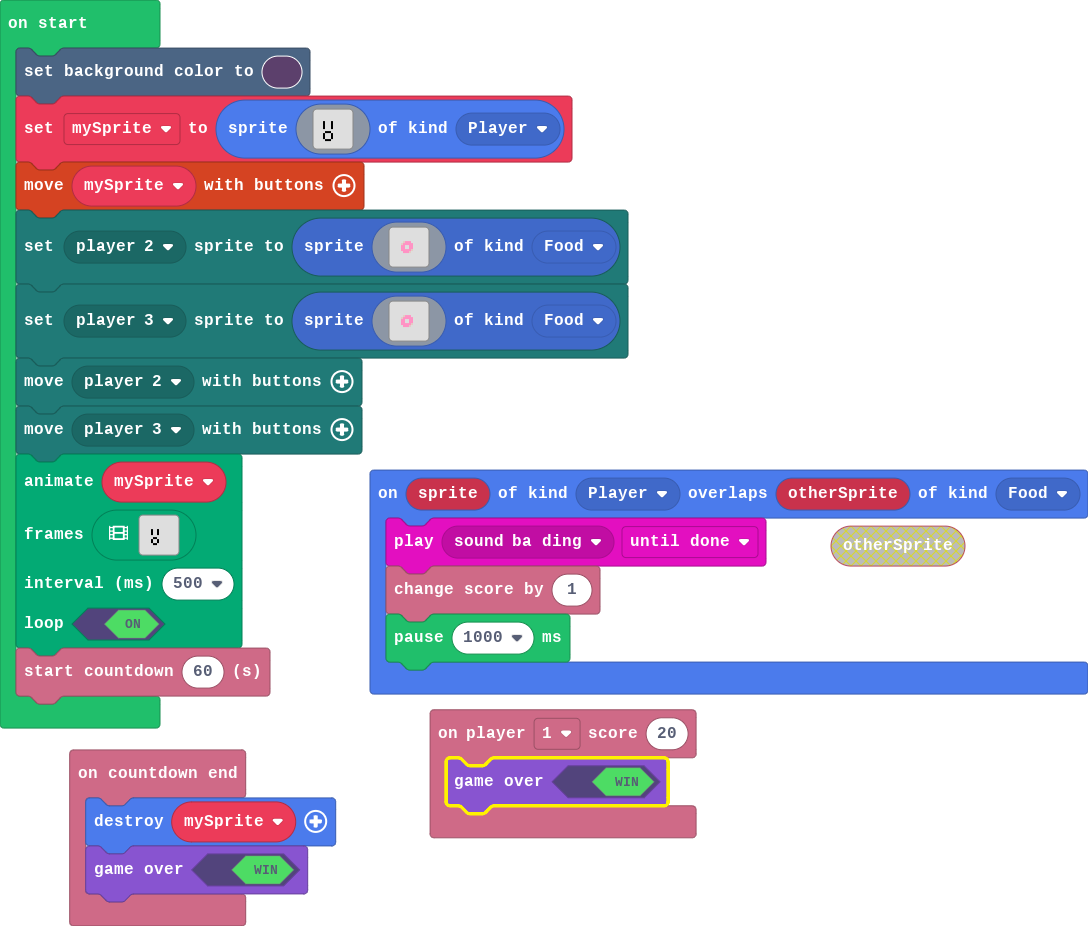
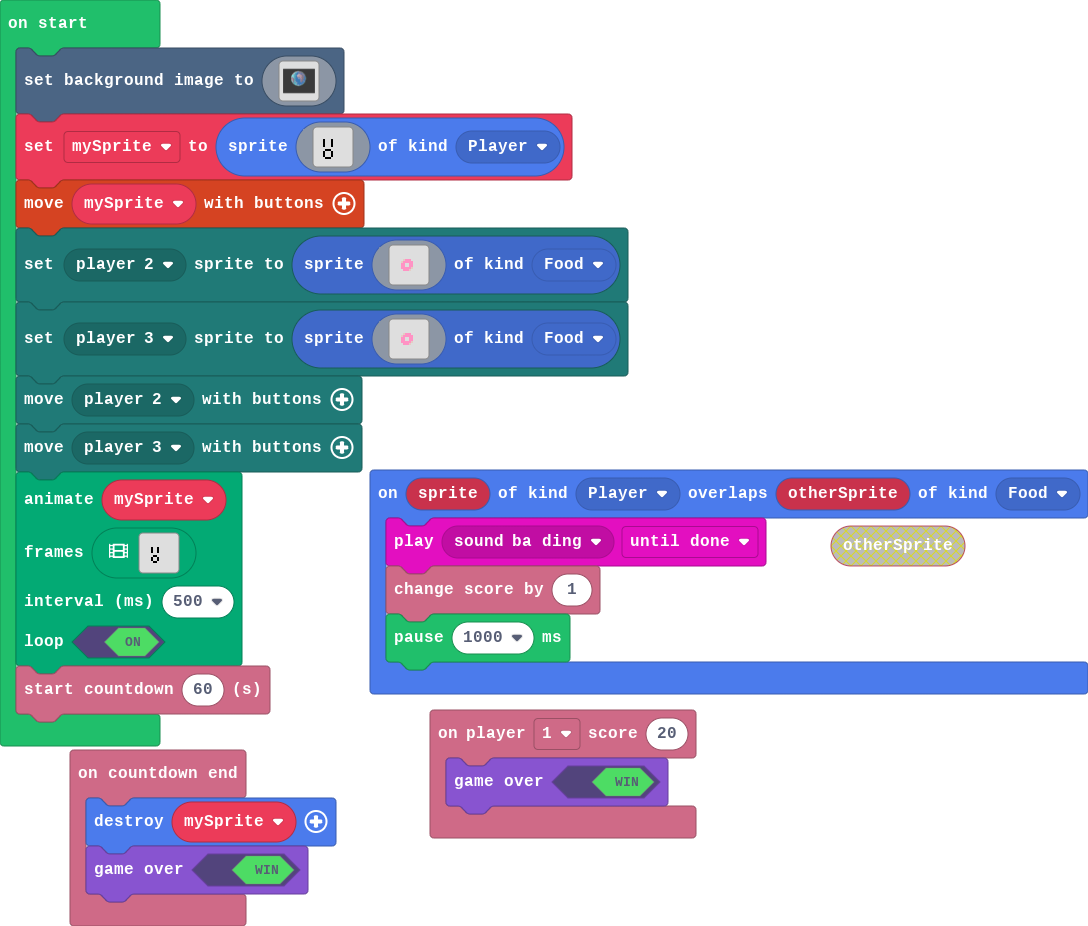
Update main.blocks, main.ts, images.g.jres, images.g.ts

Changed region(s): [[0.0, 0.0302, 0.5938, 0.8164], [0.4062, 0.8164, 0.625, 0.8769], [0.2812, 0.8769, 0.3125, 0.9071]]

diff --git a/main.ts b/main.ts
@@ -11,7 +11,128 @@ info.player1.onScore(20, function () {
     game.gameOver(true)
 })
 let mySprite: Sprite = null
-scene.setBackgroundColor(12)
+scene.setBackgroundImage(img`
+    ffffffffffffffffffffffffffffffffffffffffffffffffffffffffffffffffffffffffffffffffffffffffffffffffffffffffffffffffffffffffffffffffffffffffffffffffffffffffffffffff
+    ffffffffffffffffffffffffffffffffffffffffffffffffffffffffffffffffffffffffffffffffffffffffffffffffffffffffffffffffffffffffffffffffffffffffffffffffffffffffffffffff
+    ffffffffffffffffffffffffffffffffffffffffffffffffffffffffffffffffffffffffffffffffffffffffffffffffffffffffffffffffffffffffffffffffffffffffffffffffffffffffffffffff
+    ffffffffffffffffffffffffffffffffffffffffffffffffffffffffffffffffffffffffffffffffffffffffffffffffffffffffffffffffffffffffffffffffffffffffffffffffffffffffffffffff
+    ffffffffffffffffffffffffffffffffffffffffffffffffffffffffffffffffffffffffffffffffffffffffffffffffffffffffffffffffffffffffffffffffffffffffffffffffffffffffffffffff
+    ffffffffffffffffffffffffffffffffffffffffffffffffffffffffffffffffffffffffffffffffffffffffffffffffffffffffffffffffffffffffffffffffffffffffffffffffffffffffffffffff
+    ffffffffffffffffffffffffffffffffffffffffffffffffffffffffffffffffffffffffffffffffffffffffffffffffffffffffffffffffffffffffffffffffffffffffffffffffffffffffffffffff
+    ffffffffffffffffffffffffffffffffffffffffffffffffffffffffffffffffffffffffffffffffffffffffffffffffffffffffffffffffffffffffffffffffffffffffffffffffffffffffffffffff
+    ffffffffffffffffffffffffffffffffffffffffffffffffffffffffffffffffffffffffffffffffffffffffffffffffffffffffffffffffffffffffffffffffffffffffffffffffffffffffffffffff
+    ffffffffffffffffffffffffffffffffffffffffffffffffffffffffffffffffffffffffffffffffffffffffffffffffffffffffffffffffffffffffffffffffffffffffffffffffffffffffffffffff
+    ffffffffffffffffffffffffffffffffffffffffffffffffffffffffffffffffffffffffffffffffffffffffffffffffffffffffffffffffffffffffffffffffffffffffffffffffffffffffffffffff
[73 lines of base64/hex data omitted]
+    ffffffffffffffffffffffffffffffffffffffffffffffffffffffffffffffffffffffffffffffffffffffffffffffffffffffffffffffffffffffffffffffffffffffffffffffffffffffffffffffff
+    ffffffffffffffffffffffffffffffffffffffffffffffffffffffffffffffffffffffffffffffffffffffffffffffffffffffffffffffffffffffffffffffffffffffffffffffffffffffffffffffff
+    ffffffffffffffffffffffffffffffffffffffffffffffffffffffffffffffffffffffffffffffffffffffffffffffffffffffffffffffffffffffffffffffffffffffffffffffffffffffffffffffff
+    ffffffffffffffffffffffffffffffffffffffffffffffffffffffffffffffffffffffffffffffffffffffffffffffffffffffffffffffffffffffffffffffffffffffffffffffffffffffffffffffff
+    ffffffffffffffffffffffffffffffffffffffffffffffffffffffffffffffffffffffffffffffffffffffffffffffffffffffffffffffffffffffffffffffffffffffffffffffffffffffffffffffff
+    ffffffffffffffffffffffffffffffffffffffffffffffffffffffffffffffffffffffffffffffffffffffffffffffffffffffffffffffffffffffffffffffffffffffffffffffffffffffffffffffff
+    ffffffffffffffffffffffffffffffffffffffffffffffffffffffffffffffffffffffffffffffffffffffffffffffffffffffffffffffffffffffffffffffffffffffffffffffffffffffffffffffff
+    ffffffffffffffffffffffffffffffffffffffffffffffffffffffffffffffffffffffffffffffffffffffffffffffffffffffffffffffffffffffffffffffffffffffffffffffffffffffffffffffff
+    ffffffffffffffffffffffffffffffffffffffffffffffffffffffffffffffffffffffffffffffffffffffffffffffffffffffffffffffffffffffffffffffffffffffffffffffffffffffffffffffff
+    ffffffffffffffffffffffffffffffffffffffffffffffffffffffffffffffffffffffffffffffffffffffffffffffffffffffffffffffffffffffffffffffffffffffffffffffffffffffffffffffff
+    ffffffffffffffffffffffffffffffffffffffffffffffffffffffffffffffffffffffffffffffffffffffffffffffffffffffffffffffffffffffffffffffffffffffffffffffffffffffffffffffff
+    ffffffffffffffffffffffffffffffffffffffffffffffffffffffffffffffffffffffffffffffffffffffffffffffffffffffffffffffffffffffffffffffffffffffffffffffffffffffffffffffff
+    ffffffffffffffffffffffffffffffffffffffffffffffffffffffffffffffffffffffffffffffffffffffffffffffffffffffffffffffffffffffffffffffffffffffffffffffffffffffffffffffff
+    ffffffffffffffffffffffffffffffffffffffffffffffffffffffffffffffffffffffffffffffffffffffffffffffffffffffffffffffffffffffffffffffffffffffffffffffffffffffffffffffff
+    ffffffffffffffffffffffffffffffffffffffffffffffffffffffffffffffffffffffffffffffffffffffffffffffffffffffffffffffffffffffffffffffffffffffffffffffffffffffffffffffff
+    ffffffffffffffffffffffffffffffffffffffffffffffffffffffffffffffffffffffffffffffffffffffffffffffffffffffffffffffffffffffffffffffffffffffffffffffffffffffffffffffff
+    ffffffffffffffffffffffffffffffffffffffffffffffffffffffffffffffffffffffffffffffffffffffffffffffffffffffffffffffffffffffffffffffffffffffffffffffffffffffffffffffff
+    ffffffffffffffffffffffffffffffffffffffffffffffffffffffffffffffffffffffffffffffffffffffffffffffffffffffffffffffffffffffffffffffffffffffffffffffffffffffffffffffff
+    ffffffffffffffffffffffffffffffffffffffffffffffffffffffffffffffffffffffffffffffffffffffffffffffffffffffffffffffffffffffffffffffffffffffffffffffffffffffffffffffff
+    ffffffffffffffffffffffffffffffffffffffffffffffffffffffffffffffffffffffffffffffffffffffffffffffffffffffffffffffffffffffffffffffffffffffffffffffffffffffffffffffff
+    ffffffffffffffffffffffffffffffffffffffffffffffffffffffffffffffffffffffffffffffffffffffffffffffffffffffffffffffffffffffffffffffffffffffffffffffffffffffffffffffff
+    ffffffffffffffffffffffffffffffffffffffffffffffffffffffffffffffffffffffffffffffffffffffffffffffffffffffffffffffffffffffffffffffffffffffffffffffffffffffffffffffff
+    ffffffffffffffffffffffffffffffffffffffffffffffffffffffffffffffffffffffffffffffffffffffffffffffffffffffffffffffffffffffffffffffffffffffffffffffffffffffffffffffff
+    ffffffffffffffffffffffffffffffffffffffffffffffffffffffffffffffffffffffffffffffffffffffffffffffffffffffffffffffffffffffffffffffffffffffffffffffffffffffffffffffff
+    ffffffffffffffffffffffffffffffffffffffffffffffffffffffffffffffffffffffffffffffffffffffffffffffffffffffffffffffffffffffffffffffffffffffffffffffffffffffffffffffff
+    ffffffffffffffffffffffffffffffffffffffffffffffffffffffffffffffffffffffffffffffffffffffffffffffffffffffffffffffffffffffffffffffffffffffffffffffffffffffffffffffff
+    ffffffffffffffffffffffffffffffffffffffffffffffffffffffffffffffffffffffffffffffffffffffffffffffffffffffffffffffffffffffffffffffffffffffffffffffffffffffffffffffff
+    ffffffffffffffffffffffffffffffffffffffffffffffffffffffffffffffffffffffffffffffffffffffffffffffffffffffffffffffffffffffffffffffffffffffffffffffffffffffffffffffff
+    ffffffffffffffffffffffffffffffffffffffffffffffffffffffffffffffffffffffffffffffffffffffffffffffffffffffffffffffffffffffffffffffffffffffffffffffffffffffffffffffff
+    ffffffffffffffffffffffffffffffffffffffffffffffffffffffffffffffffffffffffffffffffffffffffffffffffffffffffffffffffffffffffffffffffffffffffffffffffffffffffffffffff
+    ffffffffffffffffffffffffffffffffffffffffffffffffffffffffffffffffffffffffffffffffffffffffffffffffffffffffffffffffffffffffffffffffffffffffffffffffffffffffffffffff
+    ffffffffffffffffffffffffffffffffffffffffffffffffffffffffffffffffffffffffffffffffffffffffffffffffffffffffffffffffffffffffffffffffffffffffffffffffffffffffffffffff
+    ffffffffffffffffffffffffffffffffffffffffffffffffffffffffffffffffffffffffffffffffffffffffffffffffffffffffffffffffffffffffffffffffffffffffffffffffffffffffffffffff
+    ffffffffffffffffffffffffffffffffffffffffffffffffffffffffffffffffffffffffffffffffffffffffffffffffffffffffffffffffffffffffffffffffffffffffffffffffffffffffffffffff
+    ffffffffffffffffffffffffffffffffffffffffffffffffffffffffffffffffffffffffffffffffffffffffffffffffffffffffffffffffffffffffffffffffffffffffffffffffffffffffffffffff
+    ffffffffffffffffffffffffffffffffffffffffffffffffffffffffffffffffffffffffffffffffffffffffffffffffffffffffffffffffffffffffffffffffffffffffffffffffffffffffffffffff
+    `)
 mySprite = sprites.create(img`
     . . . . . . . . . . . . . . . . 
     . . . . . . . . . . . . . . . . 

diff --git a/images.g.ts b/images.g.ts
@@ -22,6 +22,33 @@ namespace myImages {
 . . . . . . . . . . . . . . . . 
 . . . . . . . . . . . . . . . . 
 `;
+            case "image2":
+            case "plate":return img`
+...............bbbbbbbbbbbbbbbbbbb...............
+...........bbbbdd111111111111111ddbbbb...........
+........bbbd1111111111111111111111111dbbb........
+......bbd11111111dddddddddddddd111111111dbb......
+....bbd1111111ddd11111111111111dddd1111111dbb....
+...bd111111ddd111111111111111111111ddd111111db...
+..bd11111ddd111ddddddddddddddddddd111ddd11111db..
+.bd11111dd111dddd111111111111111dddd111dd11111db.
+.b11111d111ddd111111111111111111111ddd111d11111b.
+bd11111d1ddd1111111111111111111111111ddd1111111db
+b11111d1ddd111111111111111111111111111ddd1d11111b
+b11111ddddd111111111111111111111111111ddddd11111b
+b11111ddddd111111111111111111111111111dddbd11111b
+b111111dddd111111111111111111111111111dddb111111b
+bd111111dddd1111111111111111111111111dddbd11111db
+.b1111111dddd11111111111111111111111dddbd111111b.
+.bd1111111dbbdd1111111111111111111dddbbd111111db.
+..bd11111111dbbdd111111111111111dddbbd1111111db..
+...bd111111111dbbbbbbdddddddddddddd111111111db...
+....bbd11111111111dbbbbbbbbbddd11111111111dbb....
+......bbdd11111111111111111111111111111ddbb......
+........bbbdd11111111111111111111111ddbbb........
+...........bbbbbddd11111111111dddbbbbb...........
+................bbbbbbbbbbbbbbbbb................
+`;
         }
         return null;
     })
